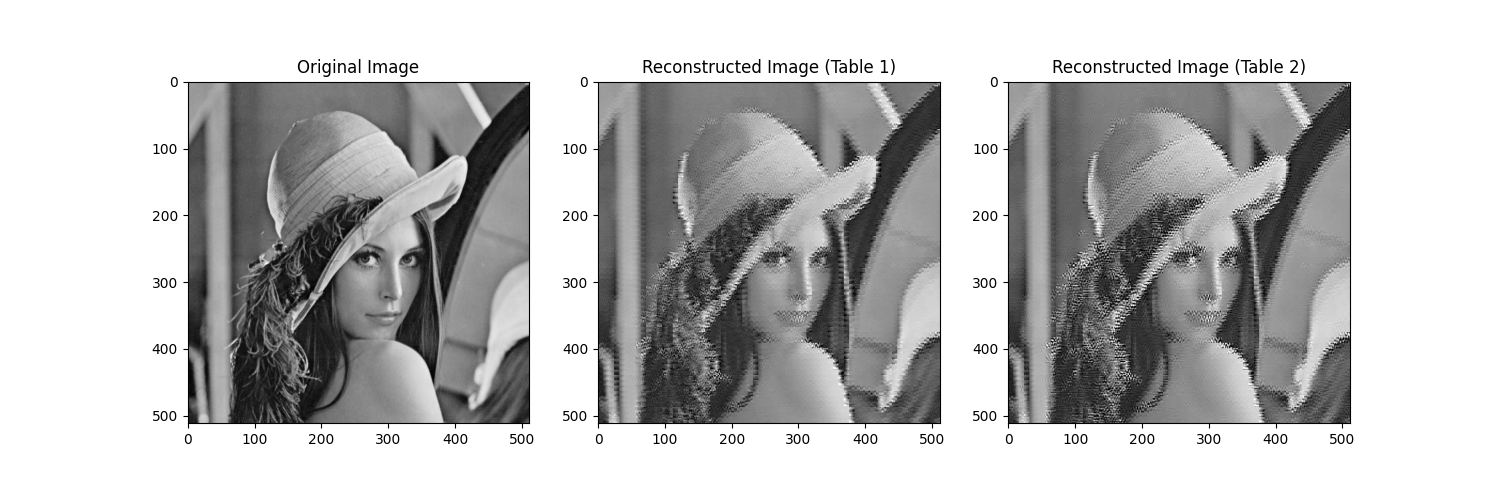
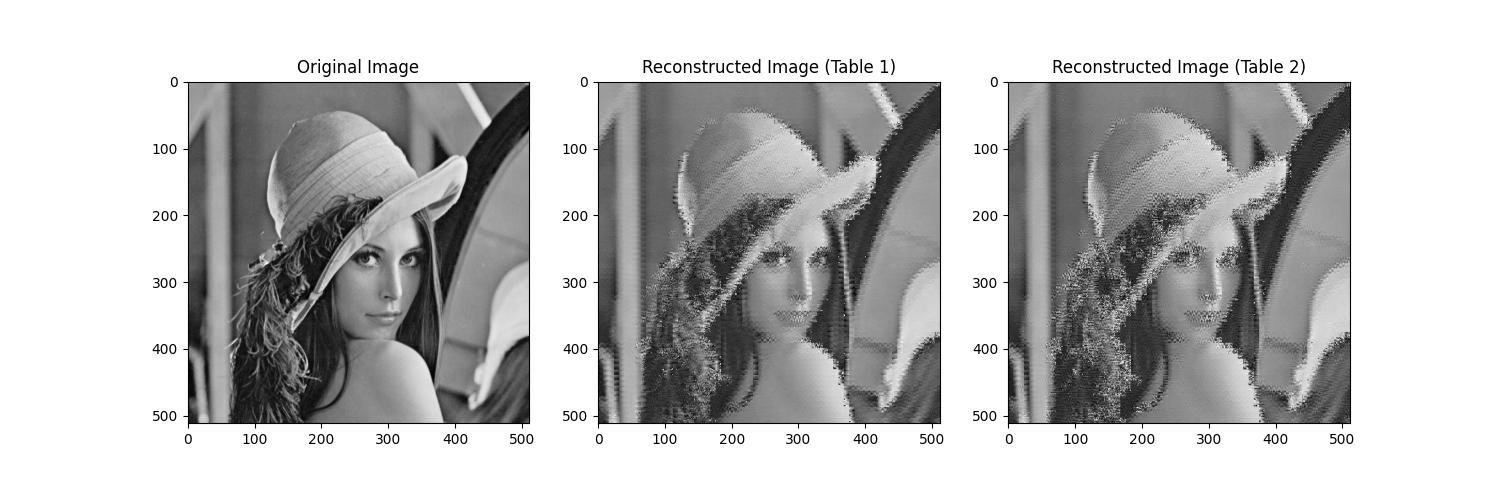
HW4: OpenCV DCT & IDCT

Changed region(s): [[0.7053, 0.39, 0.8587, 0.66], [0.7053, 0.69, 0.7667, 0.78], [0.828, 0.3, 0.8587, 0.33]]

diff --git a/Homework/HW4/src/entropy_coding.py b/Homework/HW4/src/entropy_coding.py
@@ -163,7 +163,8 @@ def process_image(q_table, image):
     # Apply DCT, Quantize, and Encode using the selected quantization table
     print(">> Apply DCT, Quantize, and Encode using the selected quantization table...")
     for block in blocks:
-        dct_block = dct_2d(block)
+        # dct_block = dct_2d(block)
+        dct_block = cv2.dct(np.float32(block))
         quantized_block = quantize(dct_block, q_table)
         encoded_blocks.append(run_length_encode(quantized_block))
 
@@ -175,7 +176,8 @@ def process_image(q_table, image):
             # Decode and apply IDCT
             decoded_rle = run_length_decode(encoded_blocks[block_idx])
             dequantized_block = inverse_quantize(decoded_rle.reshape((8, 8)), q_table)
-            reconstructed_block = idct_2d(dequantized_block)
+            # reconstructed_block = idct_2d(dequantized_block)
+            reconstructed_block = cv2.idct(np.float32(dequantized_block))
             reconstructed_image[i:i+8, j:j+8] = reconstructed_block
 
             block_idx += 1
@@ -271,6 +273,7 @@ if __name__ == '__main__':
     plt.title('Reconstructed Image (Table 2)')
     plt.imshow(reconstructed_image_2, cmap='gray')
 
+    plt.savefig("image/reconstructed_plt.png")
     plt.show()
     
     print("END!")
